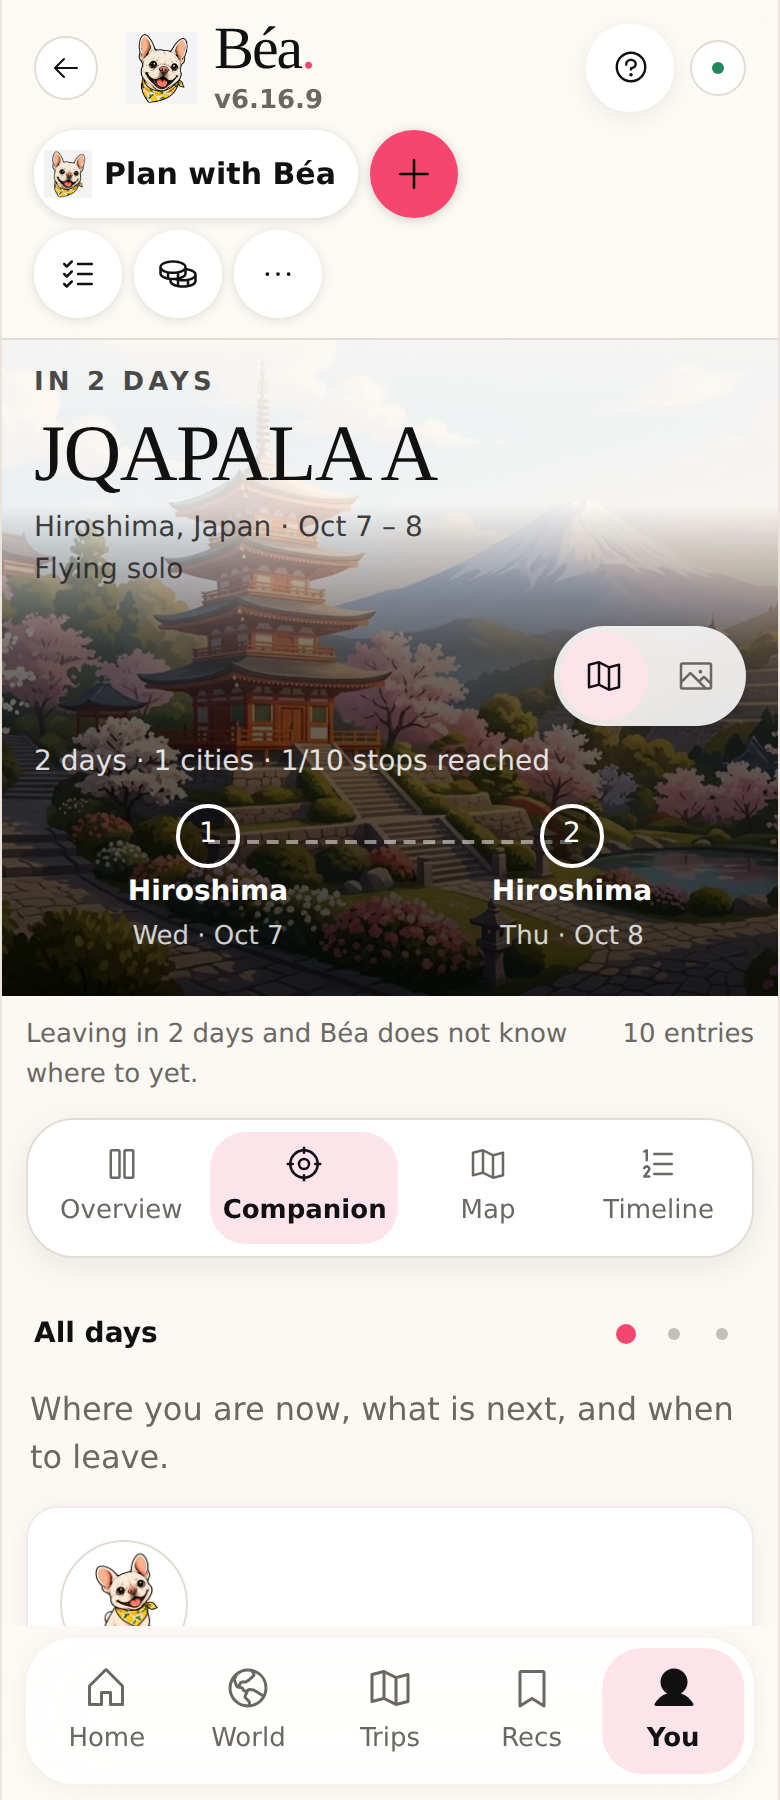
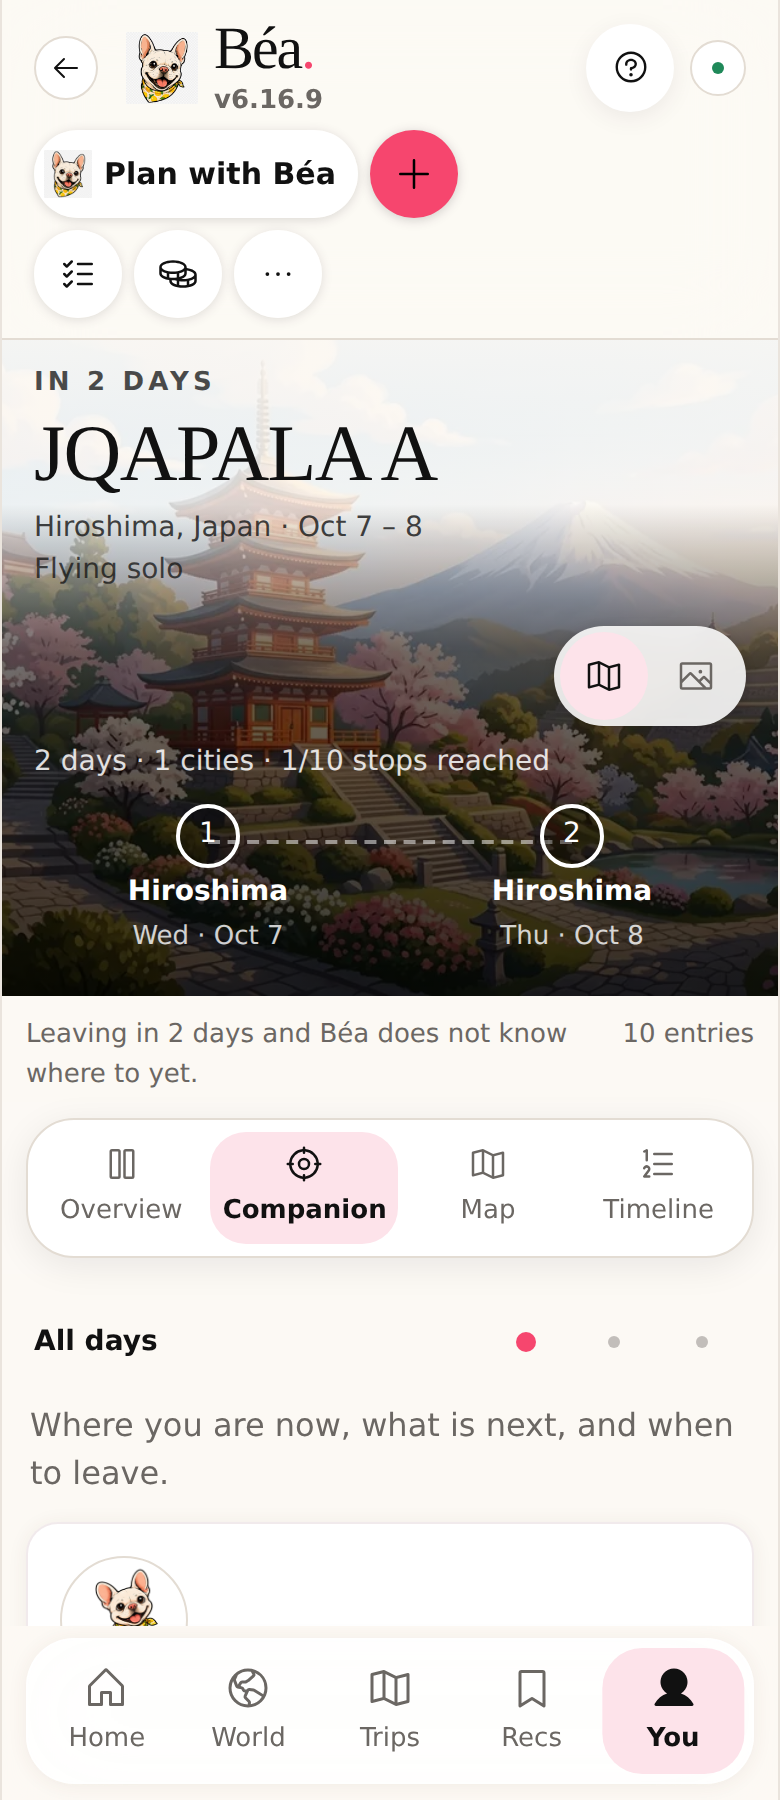
Trip days: 44px targets, scrolling dots, labelled city picker, dated repeat visits
Claude-Session: https://claude.ai/code/session_017ppDgWXV4rB4FZrGwyHhpK

diff --git a/src/components/TripDetail.tsx b/src/components/TripDetail.tsx
@@ -1398,6 +1398,20 @@ export function TripDetail({
   const chips = chosenCity
     ? dayChips(allDayGroups, todayKey).filter((chip) => cityDayKeys.has(chip.key))
     : dayChips(allDayGroups, todayKey);
+  // A city's name for the picker: with its dates when the route visits the
+  // same city more than once, so the visits can be told apart.
+  const cityOptionLabel = (c: (typeof routeCities)[number]) => {
+    const name = c.city.split(",")[0] ?? c.city;
+    const same = routeCities.filter((o) => (o.city.split(",")[0] ?? o.city) === name).length;
+    if (same < 2) return name;
+    const dates = [c.arrive_on, c.depart_on !== c.arrive_on ? c.depart_on : null]
+      .filter((d): d is string => Boolean(d))
+      .map((d) =>
+        new Date(`${d}T00:00:00`).toLocaleDateString(undefined, { month: "short", day: "numeric" }),
+      )
+      .join(" – ");
+    return dates ? `${name} (${dates})` : name;
+  };
   // Swipe the Companion view sideways to change day.
   const daySwipe = useDaySwipe(useDayStepper(chips, chosenDay, setDayChoice));
   const ordinalFor = (key: string) => chips.find((chip) => chip.key === key)?.ordinal ?? "";
@@ -1721,23 +1735,25 @@ export function TripDetail({
             <div ref={dayCardsRef} className="mb-2">
               <div className="flex items-center gap-2">
                 {routeCities.length > 1 && (
-                  <select
-                    aria-label="Which city to show"
-                    value={chosenCity?.id ?? ""}
-                    onChange={(event) => {
-                      setCityChoice(event.target.value);
-                      // The city's days, not a day from the city before.
-                      setDayChoice(ALL_DAYS);
-                    }}
-                    className="min-h-9 max-w-[45%] shrink-0 truncate rounded-full border border-border bg-elevated px-3 text-[14px] font-semibold text-foreground"
-                  >
-                    <option value="">All cities</option>
-                    {routeCities.map((c) => (
-                      <option key={c.id} value={c.id ?? ""}>
-                        {c.city.split(",")[0] ?? c.city}
-                      </option>
-                    ))}
-                  </select>
+                  <label className="flex min-h-11 max-w-[55%] shrink-0 items-center gap-1.5 text-[13px] text-muted-foreground">
+                    City
+                    <select
+                      value={chosenCity?.id ?? ""}
+                      onChange={(event) => {
+                        setCityChoice(event.target.value);
+                        // The city's days, not a day from the city before.
+                        setDayChoice(ALL_DAYS);
+                      }}
+                      className="min-h-11 min-w-0 truncate rounded-full border border-border bg-elevated px-3 text-[14px] font-semibold text-foreground"
+                    >
+                      <option value="">All cities</option>
+                      {routeCities.map((c) => (
+                        <option key={c.id} value={c.id ?? ""}>
+                          {cityOptionLabel(c)}
+                        </option>
+                      ))}
+                    </select>
+                  </label>
                 )}
                 {offerDays && perspective !== "map" ? (
                   <div className="min-w-0 flex-1">

diff --git a/src/components/day/DayCards.tsx b/src/components/day/DayCards.tsx
@@ -1,3 +1,4 @@
+import { useEffect, useRef } from "react";
 import { useDayStepper, useDaySwipe } from "@/hooks/useDaySwipe";
 import { ALL_DAYS, type DayChip, type DayChoice } from "@/lib/trip-days";
 
@@ -18,6 +19,13 @@ export function DayCards({
 }) {
   const choices: DayChoice[] = [ALL_DAYS, ...chips.map((chip) => chip.key)];
   const at = Math.max(0, choices.indexOf(value));
+  const dots = useRef<HTMLDivElement>(null);
+  // On a long trip the dots scroll; keep the chosen one in view.
+  useEffect(() => {
+    dots.current
+      ?.querySelector<HTMLElement>('[aria-selected="true"]')
+      ?.scrollIntoView({ block: "nearest", inline: "center" });
+  }, [value]);
   const step = useDayStepper(chips, value, onChange);
   const swipe = useDaySwipe(step);
   const nameOf = (key: DayChoice) => {
@@ -32,7 +40,7 @@ export function DayCards({
     <div
       role="tablist"
       aria-label="Which day to show. Swipe sideways to change day."
-      className="flex min-h-9 w-full touch-pan-y items-center justify-between gap-3 px-1"
+      className="flex min-h-11 w-full touch-pan-y items-center justify-between gap-3 px-1"
       {...swipe}
     >
       <p aria-live="polite" className="min-w-0 truncate text-[14px] font-semibold">
@@ -42,7 +50,10 @@ export function DayCards({
           <span className="font-normal text-muted-foreground"> · {chip.ordinal}</span>
         ) : null}
       </p>
-      <div className="flex shrink-0 items-center">
+      <div
+        ref={dots}
+        className="no-scrollbar flex max-w-[55%] shrink-0 items-center overflow-x-auto"
+      >
         {choices.map((key, index) => (
           <button
             key={key || "undated"}
@@ -52,10 +63,10 @@ export function DayCards({
             aria-label={nameOf(key)}
             title={nameOf(key)}
             onClick={() => onChange(key)}
-            className="grid size-6 place-items-center"
+            className="grid size-11 shrink-0 place-items-center"
           >
             <span
-              className={`rounded-full transition-all ${
+              className={`rounded-full transition-colors ${
                 index === at ? "size-2.5 bg-primary" : "size-1.5 bg-muted-foreground/40"
               }`}
             />
